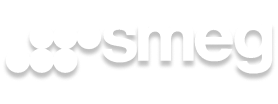
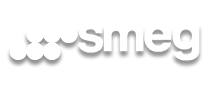
Push

Changed region(s): [[0.0861, 0.2824, 1.0, 0.7765], [0.0, 0.6118, 0.3158, 0.7765]]

diff --git a/deploy/index.html b/deploy/index.html
@@ -15,15 +15,16 @@
     <title>Web 3 Final</title>
 </head> 
 
-<section>
-    <head>
-            <img src="deploy/img/smeg.png">
-    </head>
-</section>
-
-
 <body>
-    <head>
-            <img src="deploy/global/hero.png">
-    </head>
+    <section>
+        <head>
+            <img src="img/header/smeg.png" alt="Logo">
+        </head>
+    </section>
+
+    <section>
+        
+    </section>
 </body>
+
+
